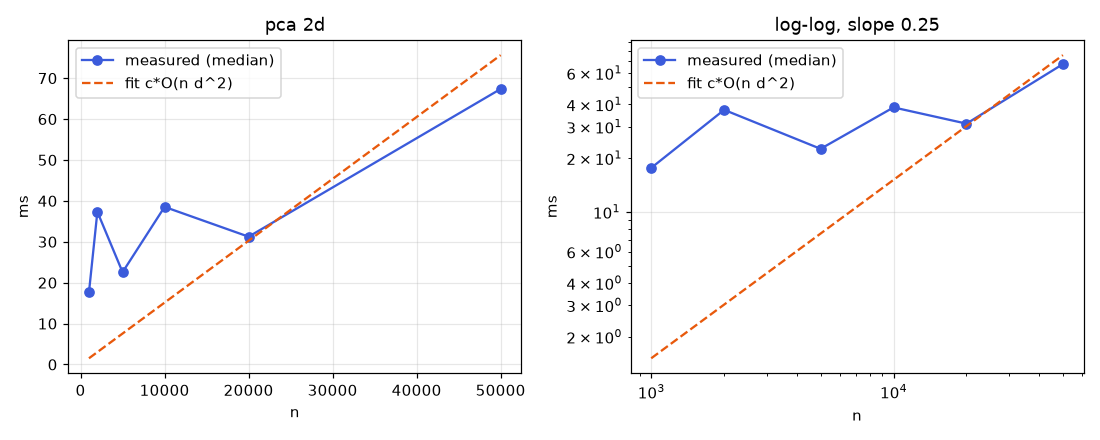
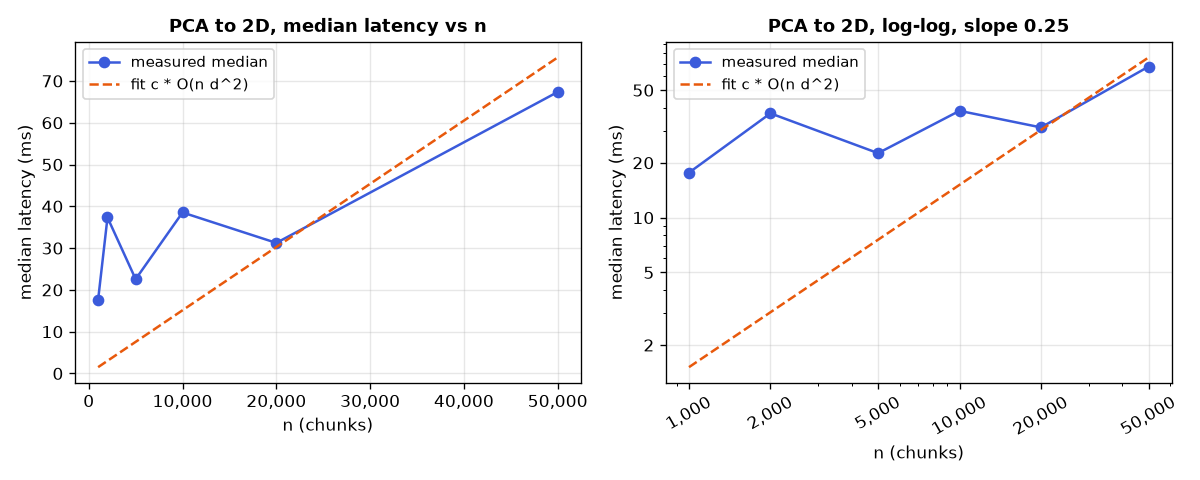
Re-plot benchmark charts from committed JSON: plain log-log ticks, titles, legends outside data, defined n

diff --git a/bench/plot_benchmarks.py b/bench/plot_benchmarks.py
@@ -1,0 +1,145 @@
+"""Re-plot every benchmark PNG from the committed JSON files (no re-timing).
+
+Inputs: docs/benchmarks/results.json, library_stages.json, browser_ann.json.
+Outputs: PNGs in docs/benchmarks/ and site/assets/benchmarks/, plus library_slopes.json.
+Run from the repo root: python bench/plot_benchmarks.py
+"""
+import json
+from pathlib import Path
+
+import matplotlib
+import numpy as np
+
+matplotlib.use("Agg")
+import matplotlib.pyplot as plt  # noqa: E402
+from matplotlib.ticker import FuncFormatter, LogLocator, NullFormatter  # noqa: E402
+
+B = Path("docs/benchmarks")
+OUT = [B, Path("site/assets/benchmarks")]
+DIM = 384
+COLORS = ["#3b5bdb", "#e8590c", "#0ca678", "#ae3ec9", "#f59f00", "#1098ad", "#495057"]
+plt.rcParams.update({"font.family": "DejaVu Sans", "font.size": 10, "axes.titlesize": 11,
+                     "axes.titleweight": "bold", "figure.facecolor": "white", "axes.facecolor": "white"})
+
+TITLES = {"chunking": "Chunking", "brute_force_search": "Brute-force search", "hnsw_search": "HNSW search",
+          "bm25_query": "BM25 query", "kmeans": "k-means", "pca_2d": "PCA to 2D"}
+XLAB = {"chunking": "n (characters, scaled with chunk count)"}
+PRED = {"chunking": ("O(N)", lambda n: n), "brute_force_search": ("O(n d)", lambda n: n),
+        "hnsw_search": ("O(d log n)", np.log2), "bm25_query": ("O(postings), about O(n)", lambda n: n),
+        "kmeans": ("O(n K i d)", lambda n: n), "pca_2d": ("O(n d^2)", lambda n: n)}
+
+
+def plain(v, _pos=None):
+    """Plain tick label: 1,000 instead of 10^3, 0.5 instead of 5x10^-1."""
+    if v >= 1:
+        return f"{v:,.0f}"
+    return f"{v:.4f}".rstrip("0").rstrip(".")
+
+
+def loglog_axes(ax, xs):
+    ax.set_xscale("log")
+    ax.set_yscale("log")
+    ax.autoscale_view()
+    ax.set_xticks(xs)
+    ax.xaxis.set_major_formatter(FuncFormatter(plain))
+    ax.xaxis.set_minor_formatter(NullFormatter())
+    lo, hi = ax.get_ylim()
+    subs = (1.0, 2.0, 5.0) if np.log10(hi / lo) <= 3.5 else (1.0,)
+    ax.yaxis.set_major_locator(LogLocator(base=10, subs=subs))
+    ax.yaxis.set_major_formatter(FuncFormatter(plain))
+    ax.yaxis.set_minor_formatter(NullFormatter())
+    ax.grid(True, which="major", alpha=0.3)
+
+
+def save(fig, name):
+    fig.tight_layout()
+    for d in OUT:
+        d.mkdir(parents=True, exist_ok=True)
+        fig.savefig(d / f"{name}.png", dpi=120)
+    plt.close(fig)
+
+
+def complexity():
+    r = json.loads((B / "results.json").read_text())
+    n = np.asarray(r["sizes"], float)
+    for name, secs in r["seconds"].items():
+        t = np.asarray(secs) * 1000
+        label, f = PRED[name]
+        ref = f(n)
+        c = float(np.dot(ref, t) / np.dot(ref, ref))
+        slope = r["loglog_slopes"][name]
+        fig, axes = plt.subplots(1, 2, figsize=(10, 4))
+        for ax, log in zip(axes, (False, True)):
+            ax.plot(n, t, "o-", color=COLORS[0], label="measured median")
+            ax.plot(n, c * ref, "--", color=COLORS[1], label=f"fit c * {label}")
+            ax.set_xlabel(XLAB.get(name, "n (chunks)"))
+            ax.set_ylabel("median latency (ms)")
+            if log:
+                loglog_axes(ax, n)
+                ax.tick_params(axis="x", labelrotation=30)
+                ax.set_title(f"{TITLES[name]}, log-log, slope {slope:.2f}")
+            else:
+                ax.xaxis.set_major_formatter(FuncFormatter(plain))
+                ax.grid(True, alpha=0.3)
+                ax.set_title(f"{TITLES[name]}, median latency vs n")
+            ax.legend(loc="upper left", fontsize=9)
+        save(fig, name)
+    fig, ax = plt.subplots(figsize=(9, 5))
+    for i, (name, secs) in enumerate(r["seconds"].items()):
+        ax.plot(n, np.asarray(secs) * 1000, "o-", color=COLORS[i], label=f"{TITLES[name]} (slope {r['loglog_slopes'][name]:.2f})")
+    loglog_axes(ax, n)
+    ax.set_xlabel("n (chunks; characters for chunking)")
+    ax.set_ylabel("median latency (ms)")
+    ax.set_title(f"Python runtime vs n, log-log (d = {DIM})")
+    ax.legend(loc="upper left", bbox_to_anchor=(1.02, 1), fontsize=9, frameon=False)
+    save(fig, "overview")
+
+
+def library():
+    d = json.loads((B / "library_stages.json").read_text())
+    slopes = {}
+    for key, sub, xl, title in [
+        ("library_stages", d, "n (passages, 8 books)", "Browser library stages, log-log"),
+        ("ia_stages", d["ia"], "r (search hits; B = r books for the selector)", "Internet Archive panel stages, log-log"),
+    ]:
+        n = np.asarray(sub["sizes"], float)
+        fig, ax = plt.subplots(figsize=(9, 4.8))
+        for i, (k, v) in enumerate(sub["stages"].items()):
+            v = np.maximum(np.asarray(v, float), 1e-4)
+            s = float(np.polyfit(np.log(n), np.log(v), 1)[0])
+            slopes[k] = round(s, 2)
+            ax.plot(n, v, "o-", color=COLORS[i], label=f"{k} (slope {s:.2f})")
+        loglog_axes(ax, n)
+        ax.set_xlabel(xl)
+        ax.set_ylabel("median latency (ms)")
+        ax.set_title(title)
+        ax.legend(loc="upper left", bbox_to_anchor=(1.02, 1), fontsize=9, frameon=False)
+        save(fig, key)
+    (B / "library_slopes.json").write_text(json.dumps(slopes, indent=2))
+
+
+def browser_ann():
+    rows = json.loads((B / "browser_ann.json").read_text())
+    n = np.asarray([r["n"] for r in rows], float)
+    fig, ax = plt.subplots(figsize=(9, 4.8))
+    ax.plot(n, [r["brute_p50_ms"] for r in rows], "o-", color=COLORS[1], label="brute force p50")
+    ax.plot(n, [r["hnsw_p50_ms"] for r in rows], "o-", color=COLORS[0], label="HNSW (ann.js) p50")
+    for r in rows:
+        ax.annotate(f"recall@10 {r['recall_at_10']:.2f}", (r["n"], r["hnsw_p50_ms"]), textcoords="offset points",
+                    xytext=(0, -16), ha="center", fontsize=8, color=COLORS[0])
+    ax.set_yscale("log")
+    ax.set_ylim(0.1, 100)
+    loglog_axes(ax, n)
+    ax.set_xlabel(f"n (passages, d = {DIM} unit vectors)")
+    ax.set_ylabel("p50 latency (ms)")
+    ax.set_title("Browser vector search, brute force vs HNSW, log-log")
+    ax.legend(loc="upper left", bbox_to_anchor=(1.02, 1), fontsize=9, frameon=False)
+    fig.tight_layout()
+    fig.savefig(B / "browser_ann.png", dpi=120)
+    plt.close(fig)
+
+
+if __name__ == "__main__":
+    complexity()
+    library()
+    browser_ann()

diff --git a/docs/COMPLEXITY.md b/docs/COMPLEXITY.md
@@ -89,7 +89,7 @@ Results were measured on the build machine (Linux, CPU only); Windows numbers wi
 
 ## Measured browser stages (final code)
 
-`node bench/bench_library.mjs > docs/benchmarks/library_stages.json && python bench/plot_library.py`. Node 20, seeded synthetic data, median ms of 3 to 5 runs.
+`node bench/bench_library.mjs > docs/benchmarks/library_stages.json && python bench/plot_benchmarks.py`. Node 20, seeded synthetic data, median ms of 3 to 5 runs.
 
 Library stages, 8 books, n passages:
 
